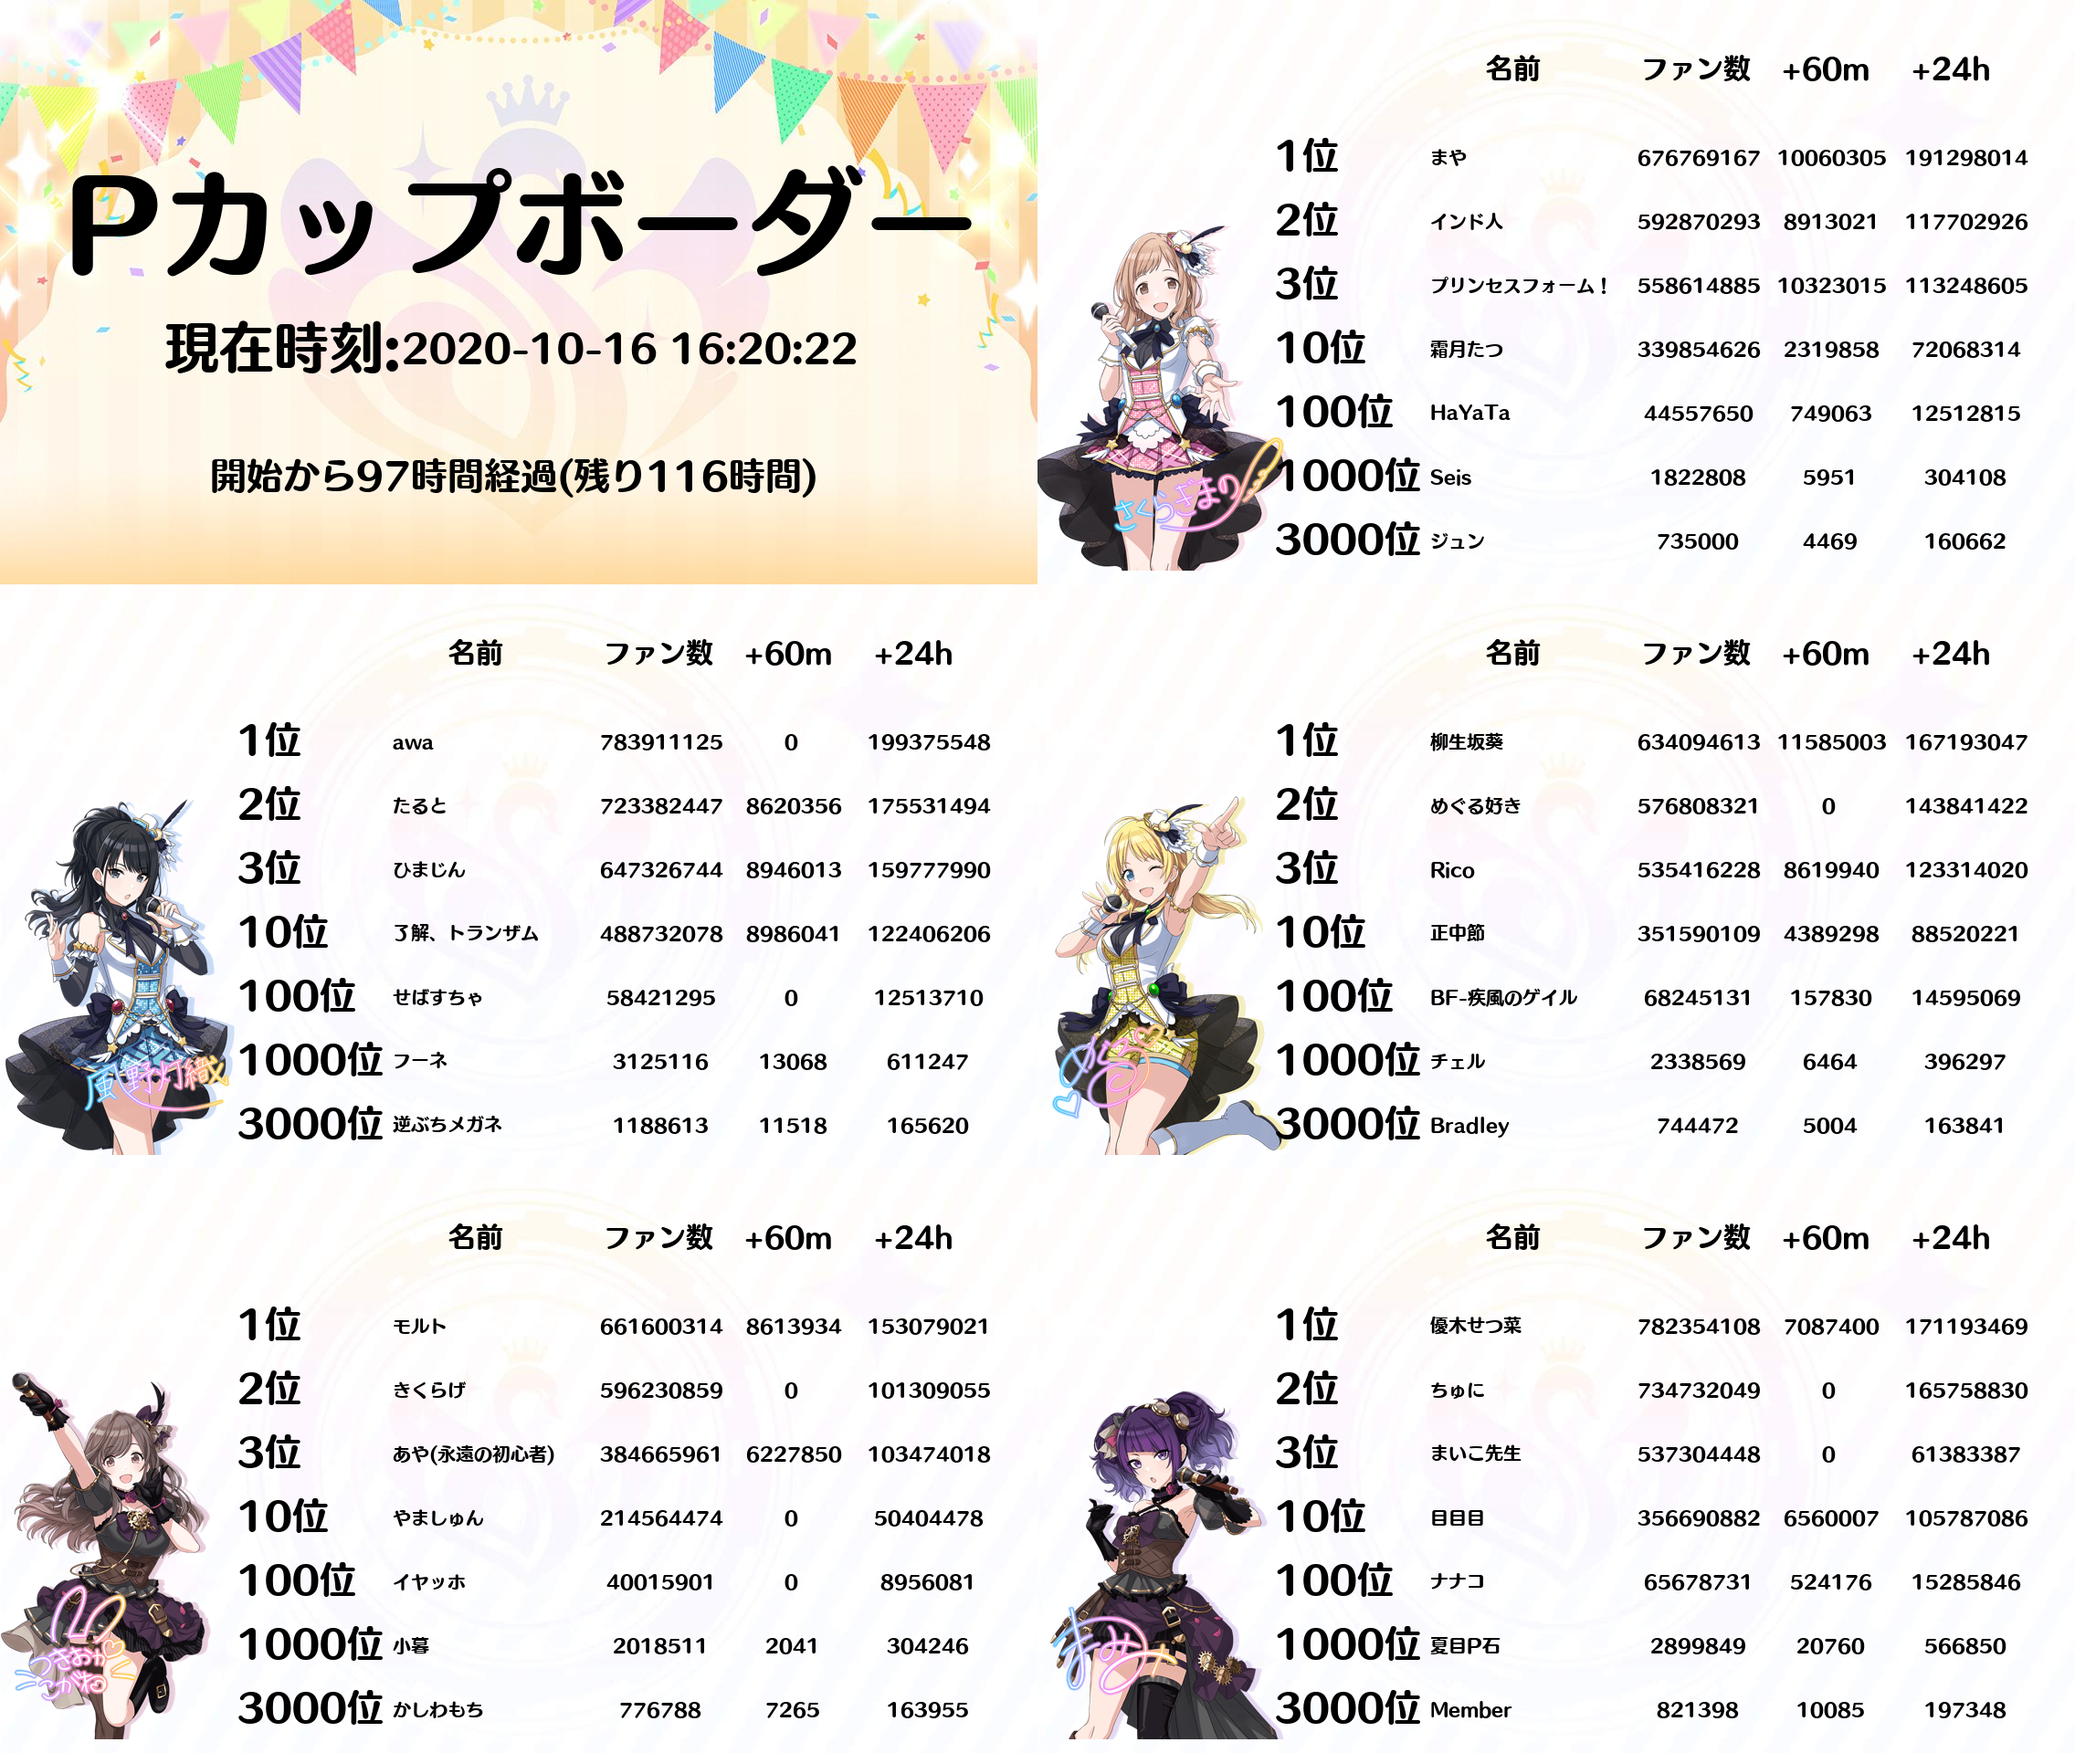
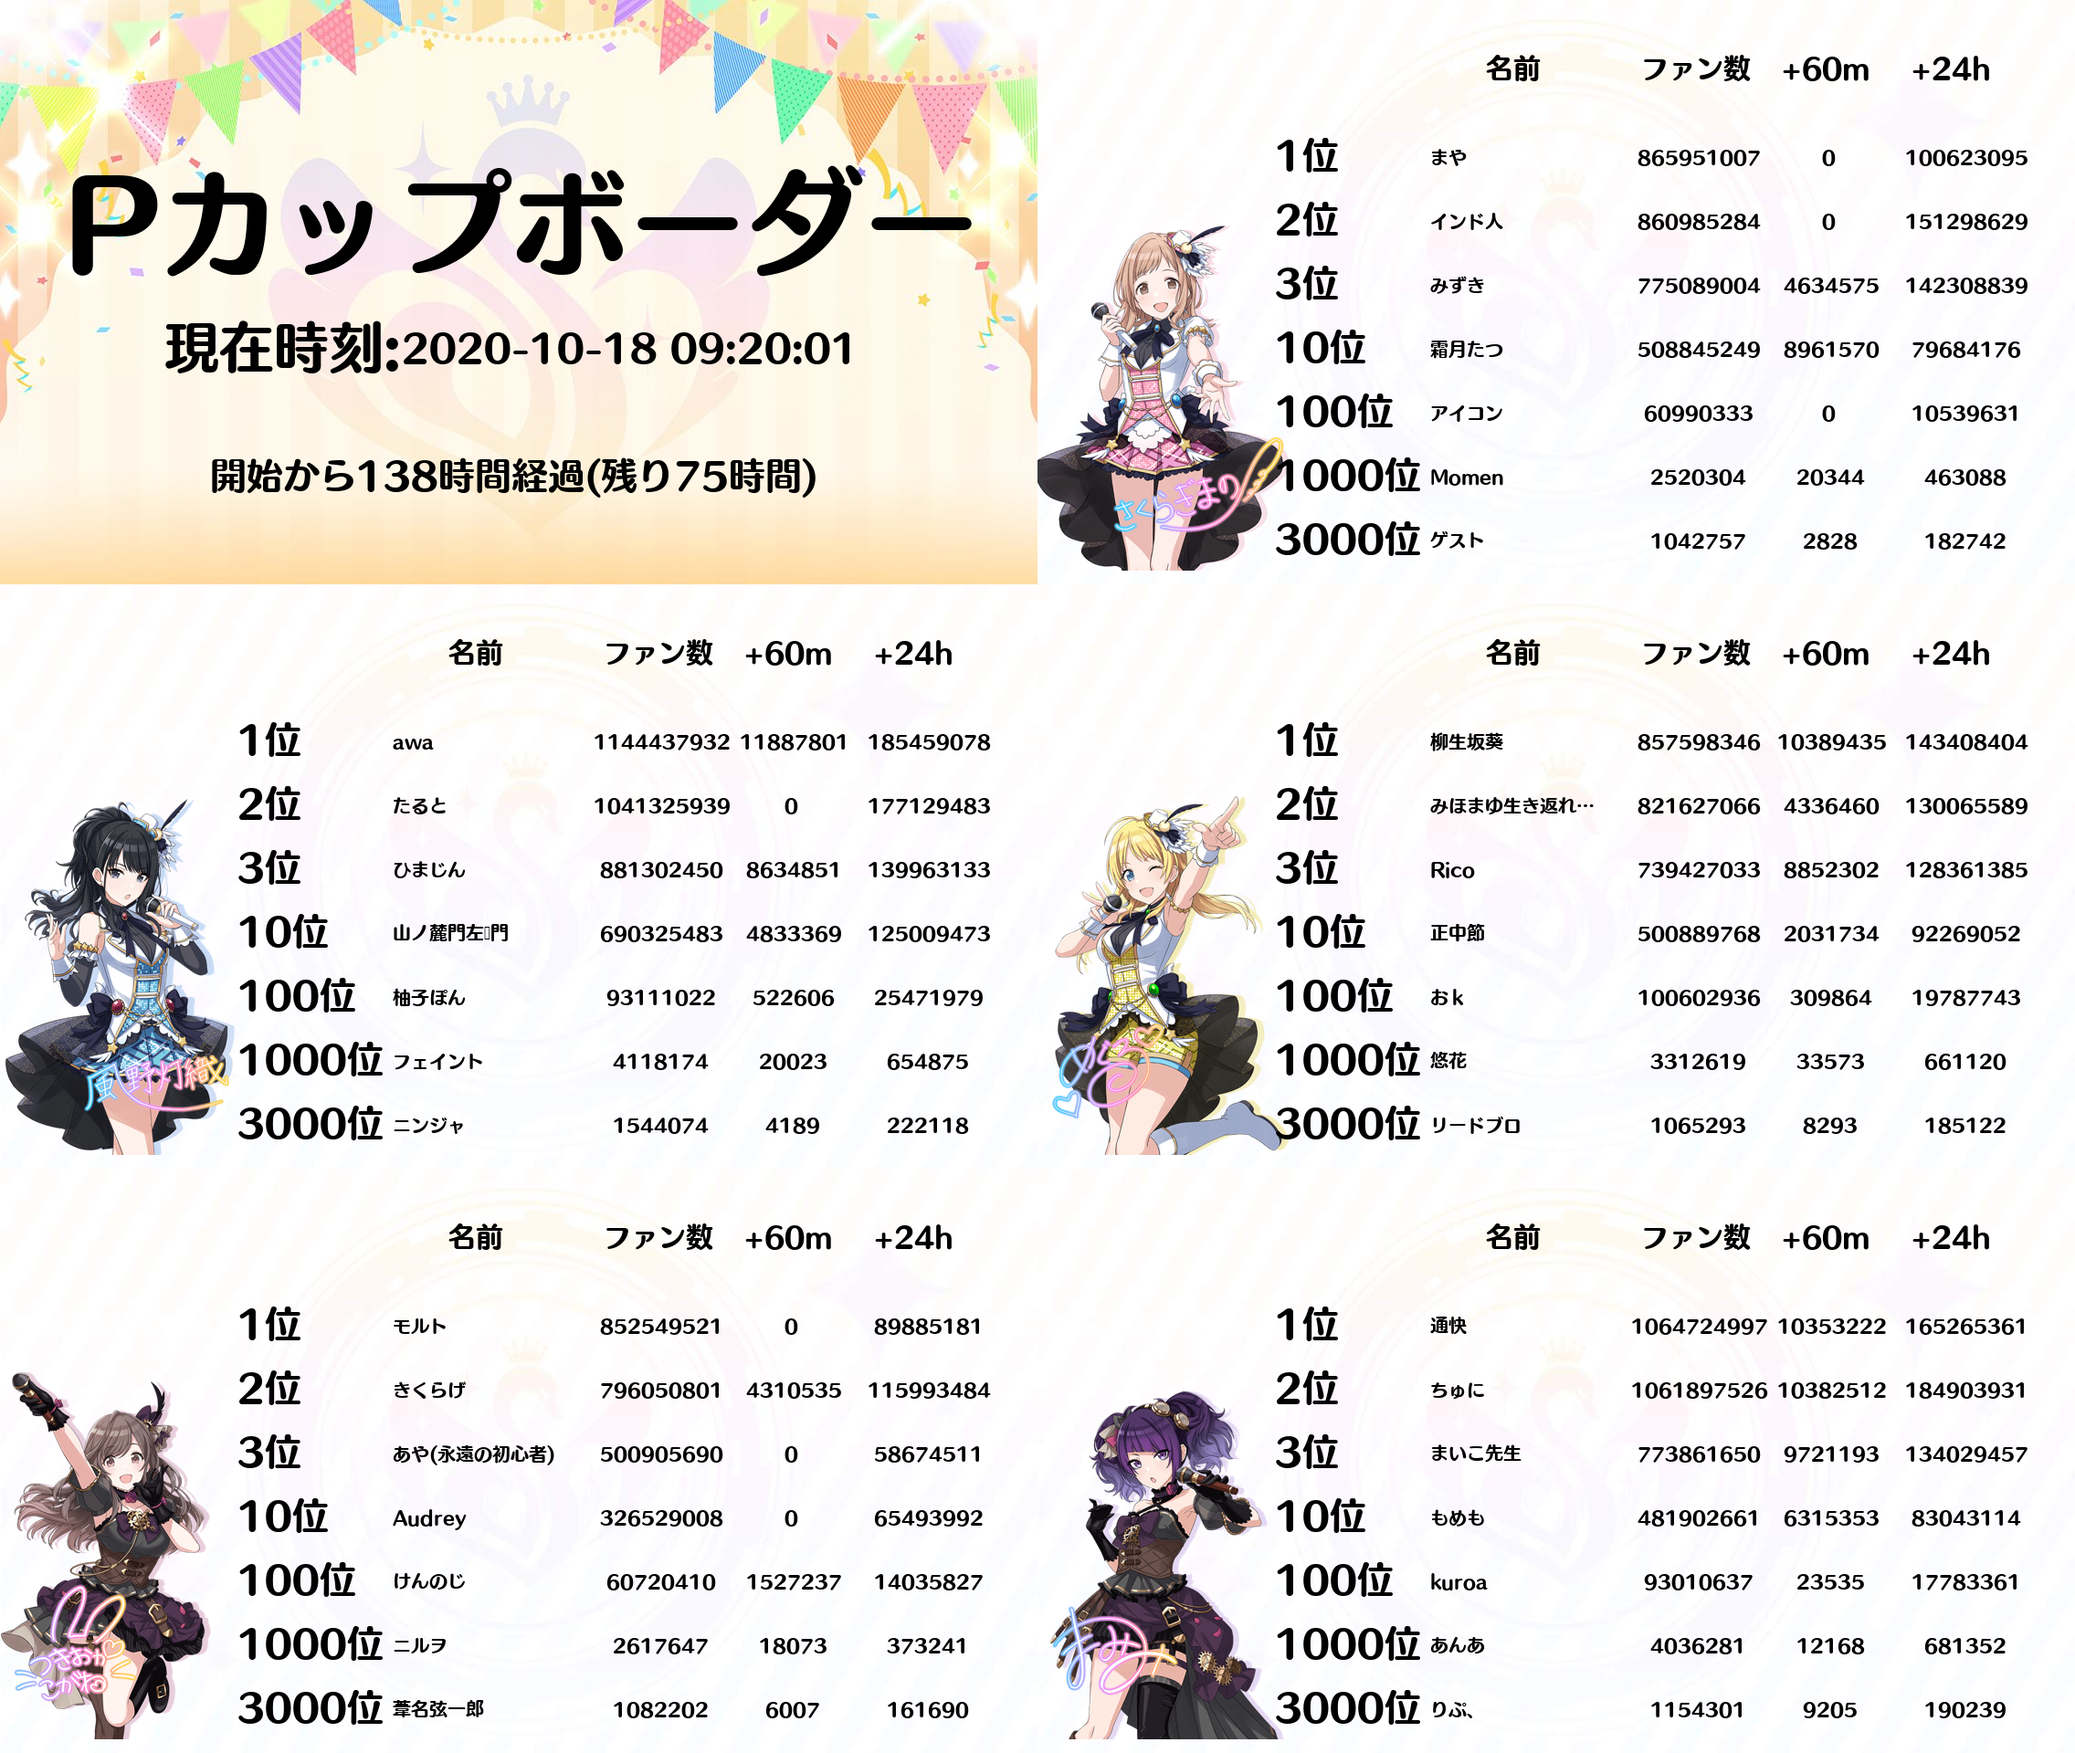
Add files via upload

diff --git a/twitterbot.py b/twitterbot.py
@@ -6,6 +6,8 @@ import json
 import tweepy
 import time
 import requests
+from retrying import retry
+
 
 def add_text_to_image(img, text, font_path, font_size, font_color, height, width, max_length=50):#画像に文字を合成する部分
     position = (width, height)
@@ -21,30 +23,18 @@ def culc_diff(a, b):#差分計算
     except:
         return 0
 
-def make_json(idol_id):#json整形部
-    s1 = scraping_json(idol_id, 1, 10)
-    s2 = scraping_json(idol_id, 91, 100)
-    s3 = scraping_json(idol_id, 991, 1000)
-    s4 = scraping_json(idol_id, 2991, 3000)
-    p1 = s1[-4]['entries']
-    p2 = s2[-4]['entries']
-    p3 = s3[-4]['entries']
-    p4 = s4[-4]['entries']
-    pp1 = s1[-30]['entries']
-    pp2 = s2[-30]['entries']
-    pp3 = s3[-30]['entries']
-    pp4 = s4[-30]['entries']
-    s1 = s1[-1]['entries']
-    s2 = s2[-1]['entries']
-    s3 = s3[-1]['entries']
-    s4 = s4[-1]['entries']
-    return {"1位":{'name':s1[0]["nickname"], 'fan_num':s1[0]["score"], 'dif_60':culc_diff(s1[0]["score"], p1[0]["score"]), 'dif_24':culc_diff(s1[0]["score"], pp1[0]["score"])}, 
-                   "2位":{'name':s1[1]["nickname"], 'fan_num':s1[1]["score"], 'dif_60':culc_diff(s1[1]["score"], p1[1]["score"]), 'dif_24':culc_diff(s1[1]["score"], pp1[1]["score"])},
-                   "3位":{'name':s1[2]["nickname"], 'fan_num':s1[2]["score"], 'dif_60':culc_diff(s1[2]["score"], p1[2]["score"]), 'dif_24':culc_diff(s1[2]["score"], pp1[2]["score"])},
-                   "10位":{'name':s1[9]["nickname"], 'fan_num':s1[9]["score"], 'dif_60':culc_diff(s1[9]["score"], p1[9]["score"]), 'dif_24':culc_diff(s1[9]["score"], pp1[9]["score"])},
-                   "100位":{'name':s2[9]["nickname"], 'fan_num':s2[9]["score"], 'dif_60':culc_diff(s2[9]["score"], p2[9]["score"]), 'dif_24':culc_diff(s2[9]["score"], pp2[9]["score"])},
-                   "1000位":{'name':s3[9]["nickname"], 'fan_num':s3[9]["score"], 'dif_60':culc_diff(s3[9]["score"], p3[9]["score"]), 'dif_24':culc_diff(s3[9]["score"], pp3[9]["score"])},
-                   "3000位":{'name':s4[9]["nickname"], 'fan_num':s4[9]["score"], 'dif_60':culc_diff(s4[9]["score"], p4[9]["score"]), 'dif_24':culc_diff(s4[9]["score"], pp4[9]["score"])}
+def make_json(idol_id, now_time):#json整形部
+    s = scraping_json(idol_id, now_time)
+    p = scraping_json(idol_id, now_time-datetime.timedelta(hours=1))
+    pp = scraping_json(idol_id, now_time-datetime.timedelta(days=1))
+
+    return {"1位":{'name':s[0]["nickname"], 'fan_num':s[0]["score"], 'dif_60':culc_diff(s[0]["score"], p[0]["score"]), 'dif_24':culc_diff(s[0]["score"], pp[0]["score"])}, 
+                   "2位":{'name':s[1]["nickname"], 'fan_num':s[1]["score"], 'dif_60':culc_diff(s[1]["score"], p[1]["score"]), 'dif_24':culc_diff(s[1]["score"], pp[1]["score"])},
+                   "3位":{'name':s[2]["nickname"], 'fan_num':s[2]["score"], 'dif_60':culc_diff(s[2]["score"], p[2]["score"]), 'dif_24':culc_diff(s[2]["score"], pp[2]["score"])},
+                   "10位":{'name':s[3]["nickname"], 'fan_num':s[3]["score"], 'dif_60':culc_diff(s[3]["score"], p[3]["score"]), 'dif_24':culc_diff(s[3]["score"], pp[3]["score"])},
+                   "100位":{'name':s[4]["nickname"], 'fan_num':s[4]["score"], 'dif_60':culc_diff(s[4]["score"], p[4]["score"]), 'dif_24':culc_diff(s[4]["score"], pp[4]["score"])},
+                   "1000位":{'name':s[5]["nickname"], 'fan_num':s[5]["score"], 'dif_60':culc_diff(s[5]["score"], p[5]["score"]), 'dif_24':culc_diff(s[5]["score"], pp[5]["score"])},
+                   "3000位":{'name':s[6]["nickname"], 'fan_num':s[6]["score"], 'dif_60':culc_diff(s[6]["score"], p[6]["score"]), 'dif_24':culc_diff(s[6]["score"], pp[6]["score"])}
                    }
             
 def make_image(now_time, font_color="black"):#画像生成部
@@ -66,31 +56,28 @@ def make_image(now_time, font_color="black"):#画像生成部
     width = 180
     img = add_text_to_image(base_img, text, font_path, font_size, font_color, height, width) # dummy for get text_size
     
-    text = str(datetime.datetime.now())[:-7]
+    text = str(now)[:-7]
     font_size = 40
     height = 360
     width = 440
     img = add_text_to_image(base_img, text, font_path, font_size, font_color, height, width) # dummy for get text_size
 
-    past_time = (datetime.datetime.now().day-12)*24+datetime.datetime.now().hour-15
-    text = "開始から"+str(past_time)+"時間経過(残り"+str(189-past_time)+"時間)"
+    past_time = (now.day-12)*24+now.hour-15
+    text = "開始から"+str(past_time)+"時間経過(残り"+str(213-past_time)+"時間)"
     font_size = 40
     height = 500
     width = 230
     img = add_text_to_image(base_img, text, font_path, font_size, font_color, height, width) # dummy for get text_size
     
-
-    #kogane_data = get_data()
-
-    mano_data = make_json("1")
+    mano_data = make_json("1", now_time)
     img_mano = make_rank('mano', mano_data, font_path)
-    hiori_data = make_json('2')
+    hiori_data = make_json('2', now_time)
     img_hiori = make_rank('hiori', hiori_data, font_path)
-    meguru_data = make_json('3')
+    meguru_data = make_json('3', now_time)
     img_meguru = make_rank('meguru', meguru_data, font_path)
-    kogane_data = make_json('4')
+    kogane_data = make_json('4', now_time)
     img_kogane = make_rank('kogane', kogane_data, font_path)
-    mamimi_data = make_json('5')
+    mamimi_data = make_json('5', now_time)
     img_mamimi = make_rank('mamimi', mamimi_data, font_path)
     
     dst11 = Image.new('RGB', (img_mano.width*2, img_mano.height))
@@ -113,19 +100,18 @@ def make_image(now_time, font_color="black"):#画像生成部
     dst1.paste(dst13, (0, img_mano.height*2))
     
     dst1.save("img1.png")
-    time.sleep(60)
     
-    sakuya_data = make_json('6')
+    sakuya_data = make_json('6', now_time)
     img_sakuya = make_rank('sakuya', sakuya_data, font_path)
-    yuika_data = make_json('7')
+    yuika_data = make_json('7', now_time)
     img_yuika = make_rank('yuika', yuika_data, font_path)
-    kiriko_data = make_json('8')
+    kiriko_data = make_json('8', now_time)
     img_kiriko = make_rank('kiriko', kiriko_data, font_path)
-    amana_data = make_json('14')
+    amana_data = make_json('14', now_time)
     img_amana = make_rank('amana', amana_data, font_path)
-    tenka_data = make_json('15')
+    tenka_data = make_json('15', now_time)
     img_tenka = make_rank('tenka', tenka_data, font_path)
-    chiyuki_data = make_json('16')
+    chiyuki_data = make_json('16', now_time)
     img_chiyuki = make_rank('chiyuki', chiyuki_data, font_path)
 
 
@@ -149,20 +135,19 @@ def make_image(now_time, font_color="black"):#画像生成部
     dst2.paste(dst23, (0, img_mano.height*2))
     
     dst2.save("img2.png")
-    time.sleep(60)
     
-    kaho_data = make_json('9')
+    kaho_data = make_json('9', now_time)
     img_kaho = make_rank('kaho', kaho_data, font_path)
-    chiyoko_data = make_json('10')
+    chiyoko_data = make_json('10', now_time)
     img_chiyoko = make_rank('chiyoko', chiyoko_data, font_path)
-    juri_data = make_json('11')
+    juri_data = make_json('11', now_time)
     img_juri = make_rank('juri', juri_data, font_path)    
-    rinze_data = make_json('12')
+    rinze_data = make_json('12', now_time)
     img_rinze = make_rank('rinze', rinze_data, font_path)
-    natsuha_data = make_json('13')
+    natsuha_data = make_json('13', now_time)
     img_natsuha = make_rank('natsuha', natsuha_data, font_path)
 
-    asahi_data = make_json('17')
+    asahi_data = make_json('17', now_time)
     img_asahi = make_rank('asahi', asahi_data, font_path)
     
     dst31 = Image.new('RGB', (img_mano.width*2, img_mano.height))
@@ -185,19 +170,18 @@ def make_image(now_time, font_color="black"):#画像生成部
     dst3.paste(dst33, (0, img_mano.height*2))
     
     dst3.save("img3.png")
-    time.sleep(60)
 
-    fuyuko_data = make_json('18')
+    fuyuko_data = make_json('18', now_time)
     img_fuyuko = make_rank('fuyuko', fuyuko_data, font_path)
-    mei_data = make_json('19')
+    mei_data = make_json('19', now_time)
     img_mei = make_rank('mei', mei_data, font_path)
-    tooru_data = make_json('20')
+    tooru_data = make_json('20', now_time)
     img_tooru = make_rank('tooru', tooru_data, font_path)
-    madoka_data = make_json('21')
+    madoka_data = make_json('21', now_time)
     img_madoka = make_rank('madoka', madoka_data, font_path)
-    koito_data = make_json('22')
+    koito_data = make_json('22', now_time)
     img_koito = make_rank('koito', koito_data, font_path)
-    hinana_data = make_json('23')
+    hinana_data = make_json('23', now_time)
     img_hinana = make_rank('hinana', hinana_data, font_path)
 
     dst41 = Image.new('RGB', (img_mano.width*2, img_mano.height))
@@ -456,16 +440,10 @@ def tweet_with_imgs(tweet, files):#ツイート実行部
 
     api.update_status(status=tweet, media_ids=media_ids)
 
-def tweet_picture(now_time):#メイン
-    nowtime = datetime.datetime.now()
+def tweet_picture(nowtime):#メイン
     past_time = (nowtime.day-12)*24+nowtime.hour-15
-    top_player = make_image(now_time)
+    make_image(nowtime)
     text = str(nowtime.month) + "/" +  str(nowtime.day) + " " + str(nowtime.hour) + ":00 現在\nPカップボーダー\n"
-    if(now_time % 100 == 24):
-        text += "最高日速\n"
-    else:
-        text += "最高時速\n"
-    text += no1 + no2 + no3
     text += "\n#Pカップボーダー"
     print(text)
     tweet_with_imgs(text, ["img1.png", "img2.png", "img3.png", "img4.png"])
@@ -481,11 +459,18 @@ def twitter_api():#API叩き部
 
     return api
 
-def scraping_json(idol_id, rank_begin, rank_end):
-    url = "https://kl8xmr7hlb.execute-api.ap-northeast-1.amazonaws.com/dev/v1/40005/getHistoryByRank/{}/{}/{}".format(idol_id, rank_begin, rank_end)
+@retry(wait_fixed=10000)
+def scraping_json(idol_id, now_time):
+    unix_time = int(now_time.timestamp()*1000)
+    rank = "https://kl8xmr7hlb.execute-api.ap-northeast-1.amazonaws.com/dev/v1/40005/getLatestRetrieve/{}?asOf={}".format(idol_id, unix_time)
+    r = requests.get(rank).json()
+    rank_id = r["body"]["id"]
+    url = "https://kl8xmr7hlb.execute-api.ap-northeast-1.amazonaws.com/dev/v1/getStandings/{}/1-3,10,100,1000,3000".format(rank_id)
     r = requests.get(url)
     data = r.json()
-    return data
+    time.sleep(3)
+    return data["body"]
 
-make_image(101609)
+now = datetime.datetime.now()
+tweet_picture(now)
     
